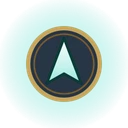
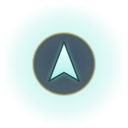
feat: the finder's sites glow gold like the game's, small enough that no two touch; the spawn marker is crest-sized, caravans get a cart, evergaols a violet rim

Changed region(s): [[0.1875, 0.1875, 0.8125, 0.8125]]

diff --git a/src/ui/MapView.tsx b/src/ui/MapView.tsx
@@ -7,7 +7,7 @@ import { StructureIcon } from './StructureIcon'
 import type { Corner } from './NightlordMedallion'
 import { catalog } from '../data/catalog'
 import { crossfade } from './crossfade'
-import { isTrackpadScroll, labelRank, markSize, nearestPin, placeLabels, playableBox, rubberband, shortBossName, zoomAbout, type LabelRequest, type NameKind } from './mapGeometry'
+import { isTrackpadScroll, labelRank, markSize, minSpacing, nearestPin, orbSize, placeLabels, playableBox, rubberband, shortBossName, zoomAbout, type LabelRequest, type NameKind } from './mapGeometry'
 import './map.css'
 
 export type PinState = 'open' | 'sighted' | 'certain' | 'candidate' | 'dimmed' | 'spawn-option' | 'spawn'
@@ -15,7 +15,7 @@ export type PinState = 'open' | 'sighted' | 'certain' | 'candidate' | 'dimmed' |
 export interface Pin { slot: SlotId; x: number; y: number; state: PinState; structure: StructureKey | null; label: string; name?: string }
 /**
  * A marker as the map draws it. Beyond the seed's own layers: the castle's bosses (a crest each) and its guard
- * (a name alone), and caravans, which stand on open ground and have no game icon, so they are a name alone too.
+ * (a name alone), and caravans, which stand on open ground where nothing is built (a cart, drawn for the app).
  */
 export interface MapMarker extends Omit<Marker, 'layer'> { layer: Marker['layer'] | 'castle' | 'caravan'; plain?: boolean }
 
@@ -24,10 +24,13 @@ const MAX_ZOOM = 4
 // so they grow and shrink with the map like the game's own. Laid out near their desktop size, they scale down
 // on a phone rather than up, and stay crisp.
 const ART_SIZE = 80
-// The orb's visible disc; its image is larger, with the glow around the disc (public/markers, about 53%).
+// The unknown-site glow's bright core; its image is twice as large, with the soft halo round the core.
 const ORB_SIZE = 50
-const ORB_BOX = Math.round(ORB_SIZE / 0.53)
+const ORB_DISC = 0.5
+const ORB_BOX = ORB_SIZE / ORB_DISC
 const ICON_SIZE = 36
+// The player's marker is drawn crest-sized: its disc is 0.48 of its image (public/markers/player.webp).
+const PLAYER_BOX = Math.round(ICON_SIZE / 0.48)
 const RING_SIZE = 110
 // How far (CSS px on screen) a tap may land from a slot and still count as that slot: at least 32, or the
 // art's own half-width once it is drawn larger.
@@ -72,6 +75,8 @@ export function MapView(props: MapContent & {
     () => (props.wholeIsland ? catalog.islandOf(props.earth) : playableBox(Object.values(catalog.slotsOf(props.earth)))),
     [props.earth, props.wholeIsland],
   )
+  // The gap between the two nearest sites, which no glow outgrows (orbSize).
+  const spacing = useMemo(() => minSpacing(Object.values(catalog.slotsOf(props.earth))), [props.earth])
   // Until the user moves the map, it keeps itself framed on the playable area as insets settle.
   const touched = useRef(false)
   const x = useMotionValue(0)
@@ -80,7 +85,7 @@ export function MapView(props: MapContent & {
   const pinScale = useTransform(scale, (s) => 1 / s)
   const mapWidth = useTransform(() => Math.max(size.get().w, size.get().h) * scale.get())
   const artScale = useTransform(mapWidth, (m) => markSize('art', m) / ART_SIZE)
-  const orbScale = useTransform(mapWidth, (m) => markSize('orb', m) / ORB_SIZE)
+  const orbScale = useTransform(mapWidth, (m) => orbSize(m, spacing) / ORB_SIZE)
   const iconScale = useTransform(mapWidth, (m) => markSize('icon', m) / ICON_SIZE)
   const ringScale = useTransform(mapWidth, (m) => markSize('ring', m) / RING_SIZE)
   // MotionConfig only reaches declarative animations; imperative moves crossfade themselves when motion is reduced.
@@ -361,13 +366,13 @@ export function MapView(props: MapContent & {
     const toScreen = (px: number, py: number) => ({ x: w / 2 + x.get() + (px / 1000 - 0.5) * s, y: h / 2 + y.get() + (py / 1000 - 0.5) * s })
     const art = markSize('art', s)
     const icon = markSize('icon', s)
-    const orb = markSize('orb', s)
+    const orb = orbSize(s, spacing)
     // A structure's art box, less its transparent margin: most game sprites are wider than tall.
     const artMark = art * ART_BODY
     // Pins with a name are placed as marks with a label (the tags); the rest only block.
     const pinRects = props.pins.filter((p) => !(p.name && p.structure)).map((p) => {
       const c = toScreen(p.x, p.y)
-      const r = p.structure ? artMark : orb / 2
+      const r = p.structure ? artMark : p.state === 'spawn' ? icon / 2 : orb / 2
       return { x0: c.x - r, y0: c.y - r, x1: c.x + r, y1: c.y + r }
     })
     const boxes = labelBoxes.get()
@@ -432,11 +437,13 @@ export function MapView(props: MapContent & {
             animate={{ opacity: p.state === 'dimmed' ? 0.4 : 1 }}
             transition={{ type: 'spring', visualDuration: 0.35, bounce: 0.2 }}
           >
-            <motion.span className="pin-body" style={{ scale: p.structure ? artScale : orbScale }}>
+            <motion.span className="pin-body" style={{ scale: p.structure ? artScale : p.state === 'spawn' ? iconScale : orbScale }}>
               <motion.span className={p.structure ? 'pin-mark' : 'pin-mark pin-orb'} animate={{ scale: props.selected === p.slot ? 1.2 : 1 }} transition={{ type: 'spring', visualDuration: 0.3, bounce: 0.25 }}>
                 {p.structure
                   ? <StructureIcon structure={p.structure} size={ART_SIZE} />
-                  : <img className="orb" src={ORB_ART[p.state] ?? ORB_ART.open} width={ORB_BOX} height={ORB_BOX} alt="" draggable={false} />}
+                  : p.state === 'spawn'
+                    ? <img className="orb" src={ORB_ART.spawn} width={PLAYER_BOX} height={PLAYER_BOX} data-disc={0.48} alt="" draggable={false} />
+                    : <img className="orb" src={ORB_ART[p.state] ?? ORB_ART.open} width={ORB_BOX} height={ORB_BOX} data-disc={ORB_DISC} alt="" draggable={false} />}
                 {/* A Church at the spawn point: the art stays whole and the player marker rides on its corner, so both show. */}
                 {p.state === 'spawn' && p.structure && <img className="spawn-badge" src={ORB_ART.spawn} alt="" draggable={false} />}
               </motion.span>
@@ -508,10 +515,10 @@ function tagOf(m: MapMarker): TagSpec {
 }
 const MARKER_ART: Partial<Record<MapMarker['layer'], string>> = {
   boss: '/markers/field-boss.webp', castle: '/markers/field-boss.webp', evergaol: '/markers/evergaol.webp',
-  chest: '/markers/chest.webp', merchant: '/markers/merchant.webp',
+  chest: '/markers/chest.webp', merchant: '/markers/merchant.webp', caravan: '/markers/caravan.webp',
 }
 
-/** A marker's game icon, sized with the map; a plain name (the castle's guard, caravans) has none. */
+/** A marker's game icon, sized with the map; a plain name (the castle's guard) has none. */
 function MarkerIcon({ marker, scale }: { marker: MapMarker; scale: MotionValue<number> }) {
   const src = marker.great ? '/markers/great-boss.webp' : MARKER_ART[marker.layer]
   if (marker.plain || !src) return null

diff --git a/scripts/import-seeds.ts b/scripts/import-seeds.ts
@@ -343,6 +343,22 @@ export async function withShadow(img: sharp.Sharp): Promise<sharp.Sharp> {
 }
 
 /**
+ * The evergaol's dark stone disc with a faint violet glow round its rim, as the game lights a sealed evergaol, so
+ * it no longer reads as an empty grey button. Baked in: the map pays for no filter as it moves.
+ */
+async function evergaolWithGlow(): Promise<sharp.Sharp> {
+  const art = await (await withShadow(sharp('data/raw/assets/markers/evergaol.png', { density: 144 }).trim())).png().toBuffer()
+  const { width, height } = await sharp(art).metadata()
+  const pad = 8
+  const w = width! + pad * 2
+  const h = height! + pad * 2
+  const r = Math.min(width!, height!) / 2 - 2
+  const ring = `<svg xmlns="http://www.w3.org/2000/svg" width="${w}" height="${h}"><filter id="b"><feGaussianBlur stdDeviation="3"/></filter>`
+    + `<circle cx="${w / 2}" cy="${h / 2 - 1}" r="${r}" fill="none" stroke="#b38cff" stroke-opacity="0.85" stroke-width="5" filter="url(#b)"/></svg>`
+  return sharp(Buffer.from(ring)).composite([{ input: art, top: pad, left: pad }])
+}
+
+/**
  * The island's box on a keyed map, in map units (0-1000): the extent of its opaque pixels. The desktop map frames
  * this, the land as drawn, rather than the square image or only the sites on it.
  */
@@ -526,16 +542,18 @@ async function copyAssets() {
   rmSync('public/markers', { recursive: true, force: true })
   mkdirSync('public/markers', { recursive: true })
   const marker = (file: string) => sharp(`data/raw/assets/markers/${file}`, { density: 144 }).trim()
-  for (const name of ['field-boss', 'evergaol', 'chest', 'merchant']) {
+  for (const name of ['field-boss', 'chest', 'merchant']) {
     await withShadow(marker(`${name}.png`)).then((img) => img.webp({ quality: 90 }).toFile(`public/markers/${name}.webp`))
   }
+  await withShadow(marker('caravan.svg').resize(96, 96, { fit: 'inside' })).then((img) => img.webp({ quality: 90 }).toFile('public/markers/caravan.webp'))
+  await evergaolWithGlow().then((img) => img.webp({ quality: 90 }).toFile('public/markers/evergaol.webp'))
   await withShadow(sharp(await marker('field-boss.png').modulate({ hue: 100, saturation: 1.4 }).png().toBuffer()))
     .then((img) => img.webp({ quality: 90 }).toFile('public/markers/great-boss.webp'))
-  for (const name of ['unknown', 'player']) {
-    await marker(`${name}.svg`).resize(128, 128, { fit: 'inside' }).webp({ quality: 90 }).toFile(`public/markers/${name}.webp`)
-  }
-  // A possible spawn point is the unknown orb turned teal, baked here so the map pays for no CSS filter.
-  await marker('unknown.svg').resize(128, 128, { fit: 'inside' }).modulate({ hue: 130, saturation: 1.3 }).webp({ quality: 90 }).toFile('public/markers/spawn-option.webp')
+  // The drawn glows fade out to the box's edge, and MapView sizes them by the box: not trimmed.
+  const glow = (name: string) => sharp(`data/raw/assets/markers/${name}.svg`, { density: 144 }).resize(128, 128)
+  for (const name of ['unknown', 'player']) await glow(name).webp({ quality: 90 }).toFile(`public/markers/${name}.webp`)
+  // A possible spawn point is the unknown glow turned the game's spirit teal, baked here so the map pays for no CSS filter.
+  await glow('unknown').modulate({ hue: 85 }).webp({ quality: 90 }).toFile('public/markers/spawn-option.webp')
   console.log('assets copied')
 }
 

diff --git a/src/ui/mapGeometry.test.ts b/src/ui/mapGeometry.test.ts
@@ -1,5 +1,5 @@
 import { describe, expect, it } from 'vitest'
-import { nearestPin, rubberband, placeLabel, placeLabels, zoomAbout, isTrackpadScroll, labelRank, markSize, shortBossName } from './mapGeometry'
+import { nearestPin, rubberband, placeLabel, placeLabels, zoomAbout, isTrackpadScroll, labelRank, markSize, shortBossName, orbSize, minSpacing, playableBox } from './mapGeometry'
 import { catalog } from '../data/catalog'
 
 // Great Hollow slots 9 and 18 sit 32 units apart, so their 44px hit areas overlap at default zoom.
@@ -330,11 +330,41 @@ describe('marks at game scale', () => {
     expect(share('art', 574)).toBeCloseTo(0.08, 3)
     expect(share('art', 1209)).toBeCloseTo(0.08, 3)
   })
-  it('scales orbs, crests and rings in proportion with the art', () => {
+  it('scales crests and rings in proportion with the art', () => {
     const ratio = (kind: Parameters<typeof markSize>[0]) => markSize(kind, 1209) / markSize('art', 1209)
-    expect(ratio('orb')).toBeCloseTo(0.65, 1)
     expect(ratio('icon')).toBeCloseTo(0.45, 1)
     expect(ratio('ring')).toBeCloseTo(1.38, 1)
+  })
+  // The finder's map, fitted as MapView fits it: a phone's width (393) spans the playable area; a desktop's map area
+  // (1080 x 900 under a 60px pill) fits the whole island.
+  const fitted = (earth: 'default' | 'great-hollow') => {
+    const box = playableBox(Object.values(catalog.slotsOf(earth)))
+    const island = catalog.islandOf(earth)
+    const w = (island.x1 - island.x0) / 1000
+    const h = (island.y1 - island.y0) / 1000
+    return { phone: 393 / ((box.x1 - box.x0) / 1000), desktop: Math.min(1080 / w, (900 - 60) / h) }
+  }
+  it('draws the unknown-site glow at 60 to 70% of its old size on phone (a 30px disc), and smaller on desktop', () => {
+    const { phone, desktop } = fitted('default')
+    const spacing = minSpacing(Object.values(catalog.slotsOf('default')))
+    expect(orbSize(phone, spacing) / 30).toBeGreaterThanOrEqual(0.6)
+    expect(orbSize(phone, spacing) / 30).toBeLessThanOrEqual(0.7)
+    // Desktop's old 63px disc sat on a map framed on the sites alone; framed on the whole island the map is smaller,
+    // and the two nearest sites leave the glow about 31px.
+    expect(orbSize(desktop, spacing)).toBeGreaterThan(28)
+    expect(orbSize(desktop, spacing) / 63).toBeLessThanOrEqual(0.7)
+  })
+  it('never lets two orbs overlap at the default zoom, on either map, phone or desktop', () => {
+    for (const earth of ['default', 'great-hollow'] as const) {
+      const slots = Object.values(catalog.slotsOf(earth))
+      const spacing = minSpacing(slots)
+      for (const width of Object.values(fitted(earth))) {
+        const disc = orbSize(width, spacing)
+        for (const a of slots) for (const b of slots) {
+          if (a !== b) expect(Math.hypot(a.x - b.x, a.y - b.y) * (width / 1000), `${earth} at ${width}`).toBeGreaterThanOrEqual(disc)
+        }
+      }
+    }
   })
   it('keeps a phone ring no smaller than 64 and a crest no smaller than 26', () => {
     expect(markSize('ring', 574)).toBe(64)

diff --git a/src/ui/map.css b/src/ui/map.css
@@ -10,14 +10,12 @@
    grows the mark about the point itself. */
 .pin-body { position: absolute; left: 50%; top: 50%; width: 0; height: 0; }
 .pin-mark { position: absolute; left: 0; top: 0; display: grid; place-items: center; translate: -50% -50%; }
-/* An orb: the game's undiscovered-site "?" (gold), a possible spawn (teal), or the player marker. The art
-   carries its own glow, so the map pays for no filter as it moves. */
+/* An orb: the game's undiscovered-site glow with its "?" (gold), a possible spawn (spirit teal), or the player's
+   marker (crest-sized, MapView). The art carries its own glow, so the map pays for no filter as it moves. */
 .orb { display: block; user-select: none; -webkit-user-drag: none; }
-/* The chosen spawn, a touch larger than an orb: where the run starts. */
-.pin-spawn .orb { width: 112px; height: 112px; }
 /* Focus mode: the sites that could hold the structure glow gold, on a map dimmed behind them. */
 .pin-candidate .pin-orb::before {
-  content: ''; position: absolute; inset: 8px; border-radius: 50%;
+  content: ''; position: absolute; inset: 10px; border-radius: 50%;
   background: radial-gradient(circle, rgba(255, 214, 130, 0.75) 0%, rgba(255, 190, 80, 0.35) 45%, rgba(255, 170, 60, 0) 70%);
 }
 .pin-candidate .structure-icon::after {
@@ -33,7 +31,7 @@
   content: ''; position: absolute; border: 4px solid var(--bone); border-radius: 50%;
   box-shadow: 0 0 0 1.5px rgba(0, 0, 0, 0.6), inset 0 0 0 1.5px rgba(0, 0, 0, 0.6), 0 0 16px 2px rgba(201, 165, 92, 0.8);
 }
-.pin-selected .pin-orb::after { inset: 16px; }
+.pin-selected .pin-orb::after { inset: 20px; }
 .pin-selected .structure-icon::before { inset: -6px; }
 /* The pins the current step asks for draw above the rest; taps snap by distance (MapView). */
 .pin-spawn-option, .pin-candidate, .pin-selected { z-index: 1; }
@@ -83,7 +81,7 @@
 /* The number in the system face: Cinzel's 1 reads as an I. */
 .marker-circle .map-name .ring-1, .marker-circle .map-name .ring-2 { font-family: var(--font); font-weight: 800; font-size: 1.2em; }
 @media (min-width: 900px) { .marker-circle .map-name { max-width: 128px; } }
-/* A name alone (the castle's guard, caravans) sits on its point on one line, clear of the marks below it. */
+/* A name alone (the castle's guard) sits on its point on one line, clear of the marks below it. */
 .marker-plain .map-name { max-width: none; white-space: nowrap; }
 /* The castle's guard, in the game's face, over the castle. */
 .marker-castle.marker-plain .map-name { font-family: var(--font-display); font-weight: 700; letter-spacing: 0.02em; }

diff --git a/src/ui/mapGeometry.ts b/src/ui/mapGeometry.ts
@@ -269,21 +269,37 @@ export const labelRank = (kind: NameKind) => NAME_ORDER.indexOf(kind)
  * like the game's own map, between a floor (still legible zoomed out on a phone) and a cap (zoomed in, it
  * would hide the ground it marks). Sizes are a share of the map as drawn, not fixed px, so a wider map gets larger
  * marks: structure art is 8% of its width at the fitted zoom (about 46px on a phone's 574px map and 97px on a
- * desktop's 1209px one), close to the reference's 9%; orbs, crests and rings keep their proportion to the art.
+ * desktop's 1209px one), close to the reference's 9%; crests and rings keep their proportion to the art.
  */
 const MARK_SIZES = {
-  // Structure art, and the orb's visible disc (its image carries a halo around it).
   art: { share: 0.08, min: 28, max: 140 },
-  orb: { share: 0.052, min: 22, max: 90 },
-  // Boss crests, evergaols, chests.
+  // The unknown-site glow's bright core (its image carries a softer halo around it); see orbSize.
+  orb: { share: 0.033, min: 16, max: 60 },
+  // Boss crests, evergaols, chests, and the player's own marker.
   icon: { share: 0.036, min: 26, max: 64 },
-  // A night's closing ring, with the boss's name written across it.
+  // A night's closing ring.
   ring: { share: 0.11, min: 64, max: 300 },
 } as const
 export type MarkKind = keyof typeof MARK_SIZES
 export function markSize(kind: MarkKind, mapWidth: number): number {
   const { share, min, max } = MARK_SIZES[kind]
   return Math.min(max, Math.max(min, mapWidth * share))
+}
+
+/**
+ * The unknown-site glow's core, in screen px: about the footprint of a structure's sprite, as the game's own, and
+ * never wider than the gap between the two nearest sites (`spacing`, in map units), so no two glows run together.
+ */
+export const orbSize = (mapWidth: number, spacing: number) =>
+  Math.min(markSize('orb', mapWidth), (spacing * mapWidth) / 1000 - 0.5)
+
+/** The distance between the two nearest of `points` (map units). */
+export function minSpacing(points: readonly { x: number; y: number }[]): number {
+  let least = Infinity
+  for (let i = 0; i < points.length; i++) {
+    for (let j = i + 1; j < points.length; j++) least = Math.min(least, Math.hypot(points[i].x - points[j].x, points[i].y - points[j].y))
+  }
+  return least
 }
 
 /** A night boss as its ring names it: the lead of a named pair ("Tree Sentinel and Royal Cavalrymen"). */

diff --git a/src/ui/ResultOverlay.tsx b/src/ui/ResultOverlay.tsx
@@ -69,12 +69,12 @@ export function ResultOverlay({ seed, go, bottomInset, topInset, restInset, setM
       ...(basement ? [{ layer: 'castle' as const, ...at.basement, label: basement }] : []),
     ]
   }, [seed])
-  // Caravans stand on open ground where nothing is built, and the game gives them no icon: a name alone.
+  // Caravans stand on open ground where nothing is built: a small cart, drawn in the game icons' style, and a name.
   const caravans = useMemo<MapMarker[]>(() => {
     const coords = catalog.slotsOf(seed.earth)
     return Object.entries(seed.inside)
       .filter(([slot]) => !seed.slots[slot] && coords[slot])
-      .map(([slot, label]) => ({ layer: 'caravan', ...coords[slot], label, plain: true }))
+      .map(([slot, label]) => ({ layer: 'caravan', ...coords[slot], label }))
   }, [seed])
 
   const pins = useMemo<Pin[]>(() => {

diff --git a/scripts/fetch-raw.ts b/scripts/fetch-raw.ts
@@ -23,7 +23,7 @@ const files: Record<string, string> = {
 
 // Game map markers from the Fextralife wiki's Locations legend (https://eldenringnightreign.wiki.fextralife.com/Locations),
 // fetched 2026-09-24. The wiki has no "?" unexplored-site orb, player marker, great boss crest or caravan icon:
-// unknown.svg and player.svg in data/raw/assets/markers are drawn by hand, and the great boss crest is derived
+// unknown.svg, player.svg and caravan.svg in data/raw/assets/markers are drawn by hand, and the great boss crest is derived
 // from the field boss crest in import-seeds.ts. See data/raw/assets/SOURCES.md.
 const FEXTRALIFE = 'https://static0.fextralifeimages.com/file/eldenringnightreign'
 Object.assign(files, {

diff --git a/src/data/catalog.test.ts b/src/data/catalog.test.ts
@@ -94,7 +94,7 @@ describe('game art for the new look', () => {
     for (const key of Object.keys(DAMAGE_NAMES)) expect(size(`damage/${key}.webp`), key).toBeLessThan(30_000)
   })
   it('has every map marker, each within the 30 KB budget', () => {
-    for (const name of ['unknown', 'spawn-option', 'player', 'field-boss', 'great-boss', 'evergaol', 'chest', 'merchant']) {
+    for (const name of ['unknown', 'spawn-option', 'player', 'field-boss', 'great-boss', 'evergaol', 'chest', 'merchant', 'caravan']) {
       expect(size(`markers/${name}.webp`), name).toBeLessThan(30_000)
     }
   })

diff --git a/data/raw/assets/SOURCES.md b/data/raw/assets/SOURCES.md
@@ -13,10 +13,10 @@ From the Fextralife Elden Ring Nightreign wiki's map legend on its Locations pag
 
 The wiki has no "?" unexplored-site orb, player marker, great boss crest or caravan icon. I checked the whole file list with the wiki's `api.php?action=query&list=allimages`, about 7,700 files. So:
 
-- `unknown.svg` (a gold orb with a "?") and `player.svg` (an arrowhead in a bronze ring) were drawn for Bonfire Buddy.
+- `unknown.svg` (a soft gold flame-glow with a thin "?"), `player.svg` (a pale arrowhead on a dark disc in a faint bronze ring) and `caravan.svg` (a covered cart) were drawn for Bonfire Buddy.
 - `public/markers/great-boss.webp` is `field-boss.png` hue-shifted to red by the import.
 - `public/markers/spawn-option.webp` is `unknown.svg` hue-shifted to teal by the import, for a possible spawn point.
-- Caravans get no icon.
+- `public/markers/evergaol.webp` gets a faint violet rim glow from the import, for the sealed evergaol.
 
 ## damage/ (damage and status icons)
 
